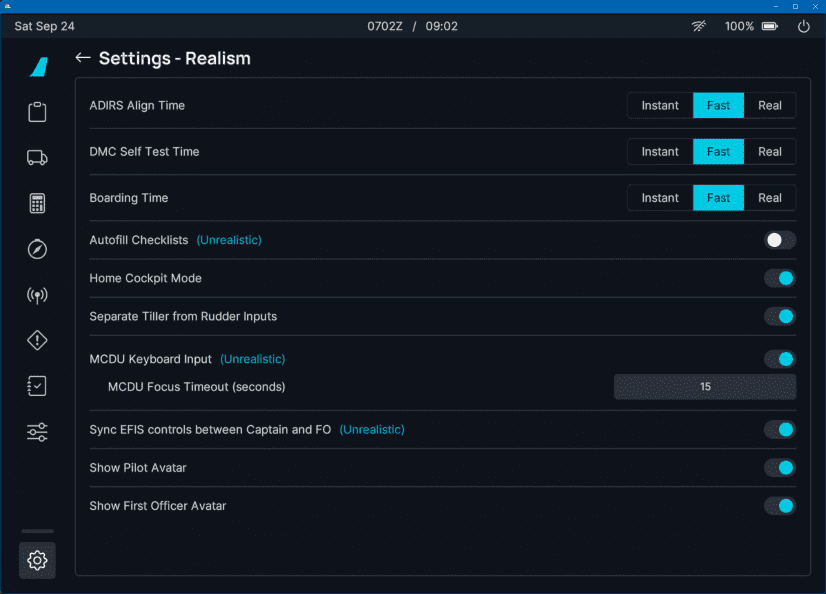
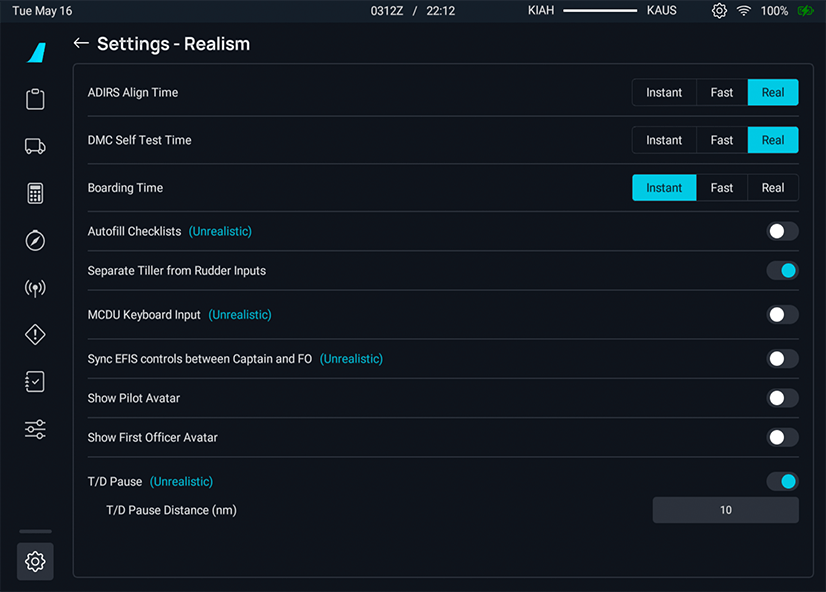
docs(efb): update OS 3 with pause at TOD
* Add pause at tod in settings.md

* Upload new picture and complete TOD in settings.md

* update image for realism settings

* slein review

* number spacing fix

---------

diff --git a/docs/fbw-a32nx/feature-guides/flypados3/settings.md b/docs/fbw-a32nx/feature-guides/flypados3/settings.md
@@ -185,8 +185,8 @@ Settings for realism aspects of the A32NX aircraft.
 - MCDU Keyboard Input (unrealistic)
     - Enables the MCDU Keyboard input feature (see [MCDU Keyboard](../mcdu-keyboard.md)).
 - MCDU Focus Timeout (s)
-    - The timeout feature will automatically deactivate the focus of the MCDU screen after the given number of seconds.
-    - Valid range is 5 - 120 seconds.
+    - The timeout feature will automatically deactivate the focus of the MCDU screen after the given amount of seconds.
+    - Valid range is 5 - 120 seconds.
     - Setting is only available if MCDU Keyboard Input is enabled.
 - Sync EFIS controls between Captain and FO (unrealistic)
     - When enabled, the EFIS controls will be synchronized between the Captain and FO.
@@ -198,6 +198,10 @@ Settings for realism aspects of the A32NX aircraft.
 - Show First Officer Avatar
     - When enabled, the first officer avatar will be visible in the cockpit.
     - The avatar style can be chosen in the MSFS settings `General Options -> Misc`.
+- Pause At TOD (Top of Descent)
+    - Pause at TOD can be configured by distance between 0 - 50 NM before TOD
+    - When enabled, your aircraft will pause at the specified distance before TOD
+    - If the TOD point shifts before your present position, or AP mode reverts to CRZ, it will pause the simulation.
 
     !!! block ""
         ![img_3.png](../../assets/flypados3/flypad-settings-realism-avatars.png){loading=lazy align=center width=49%}
@@ -238,6 +242,7 @@ These options are separate to provide you with the flexibility to choose what to
     - Enables the option to synchronize GSX and the aircraft's own payload management system.
 - GSX Fuel Sync:
     - Enables the option to synchronize GSX and the aircraft's own fuel management system.
+
 ## ATSU/AOC
 
 Settings for integration with various data and information sources.
